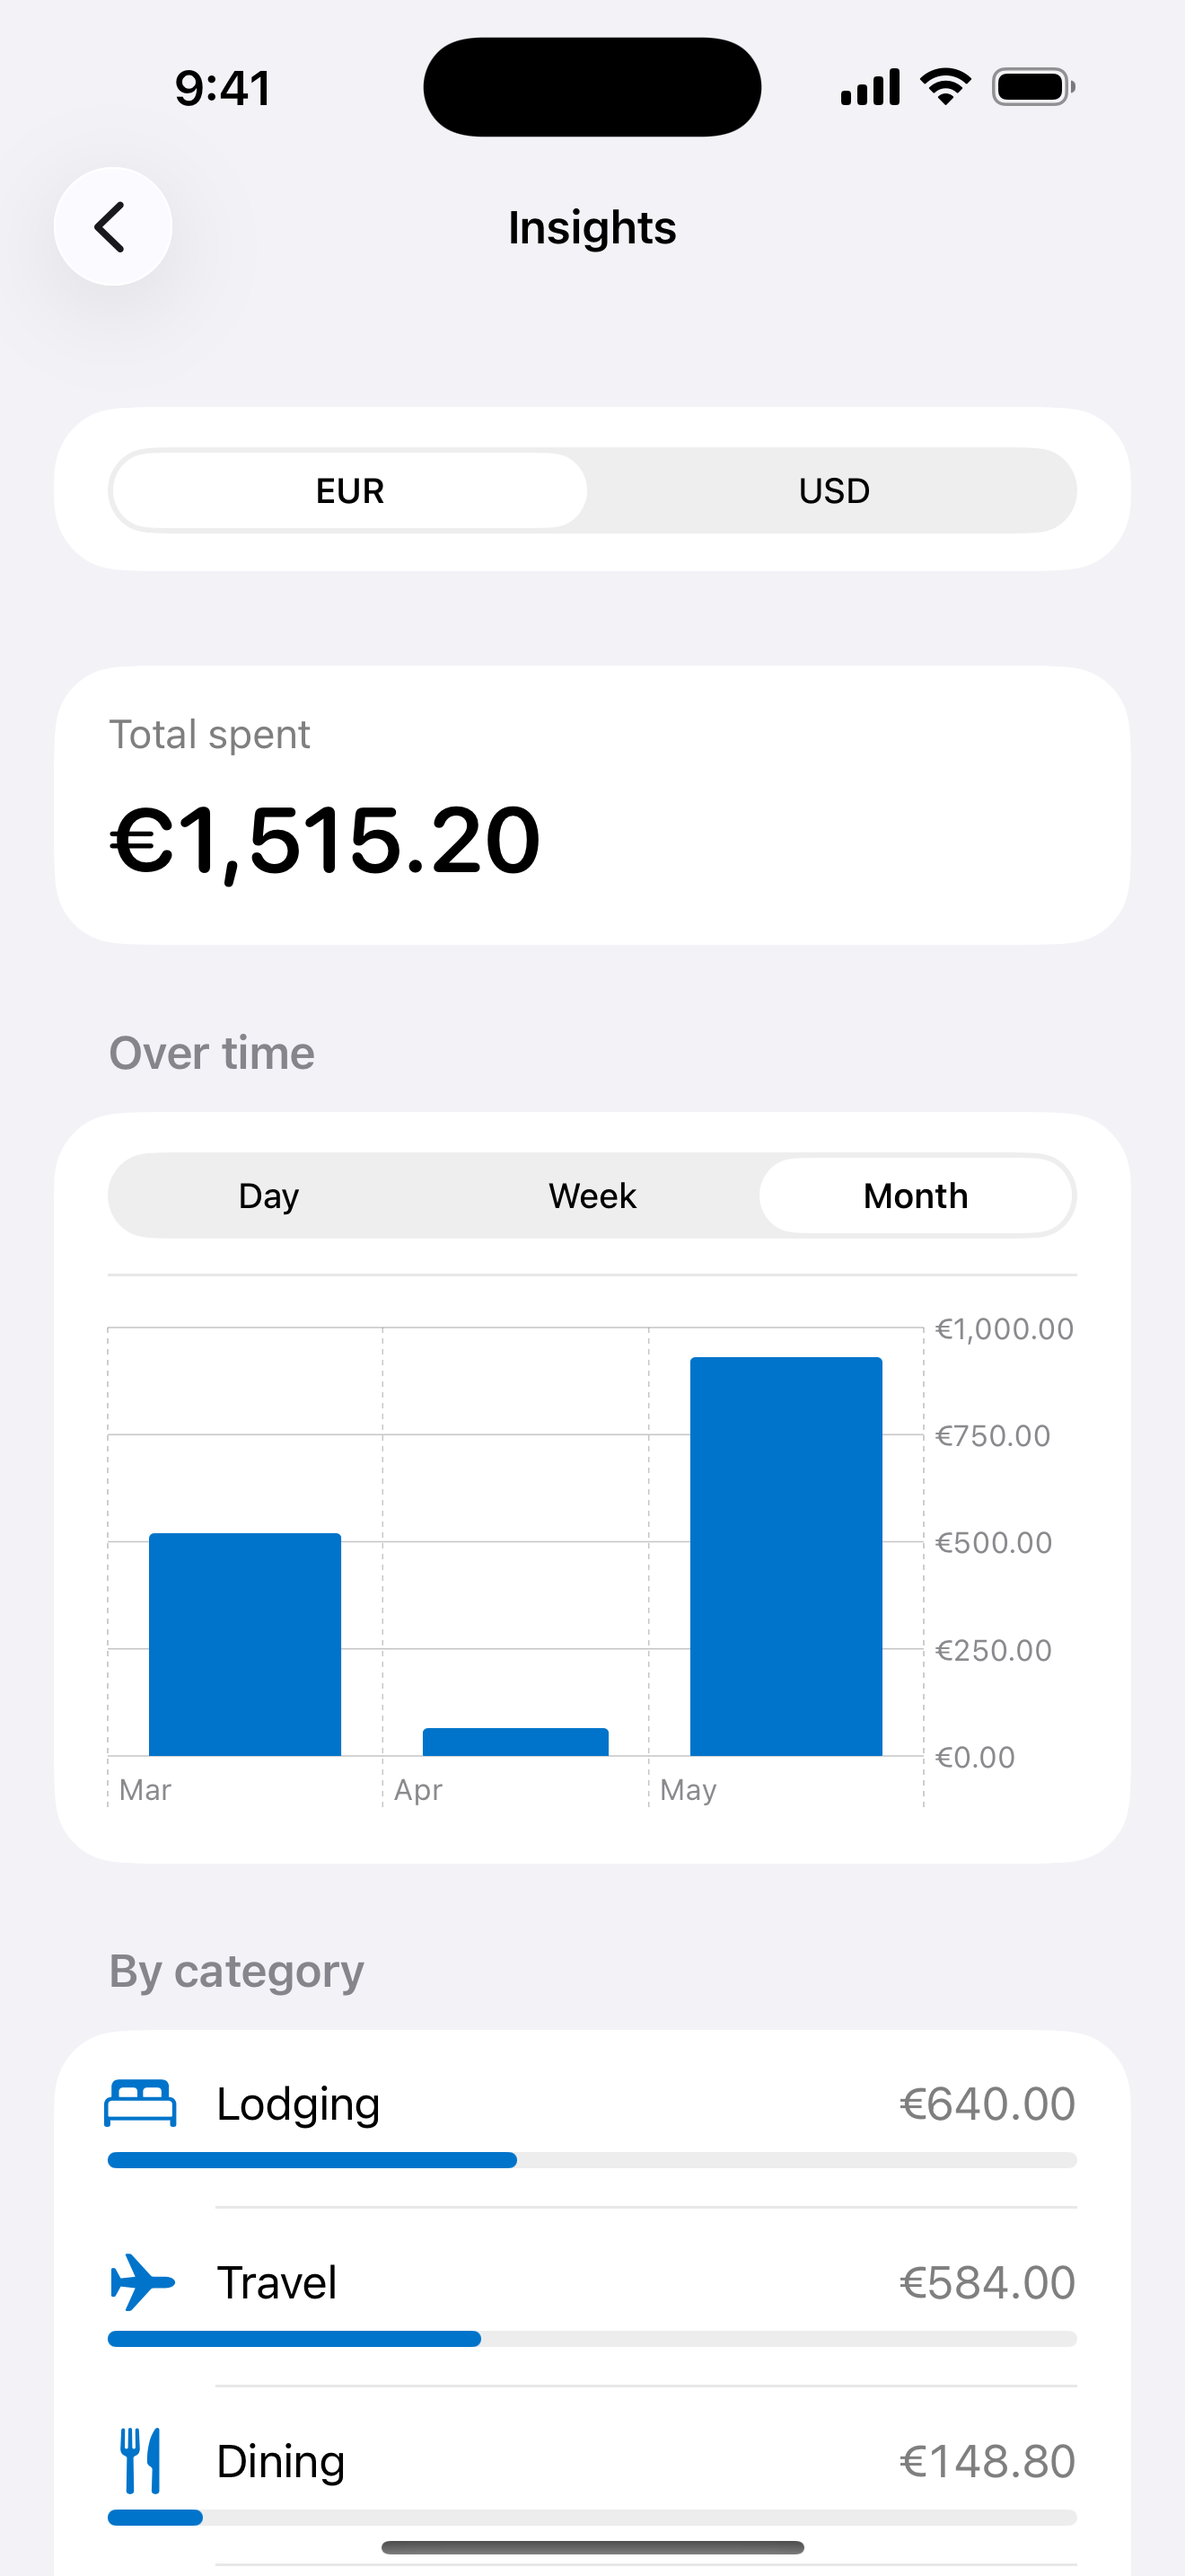
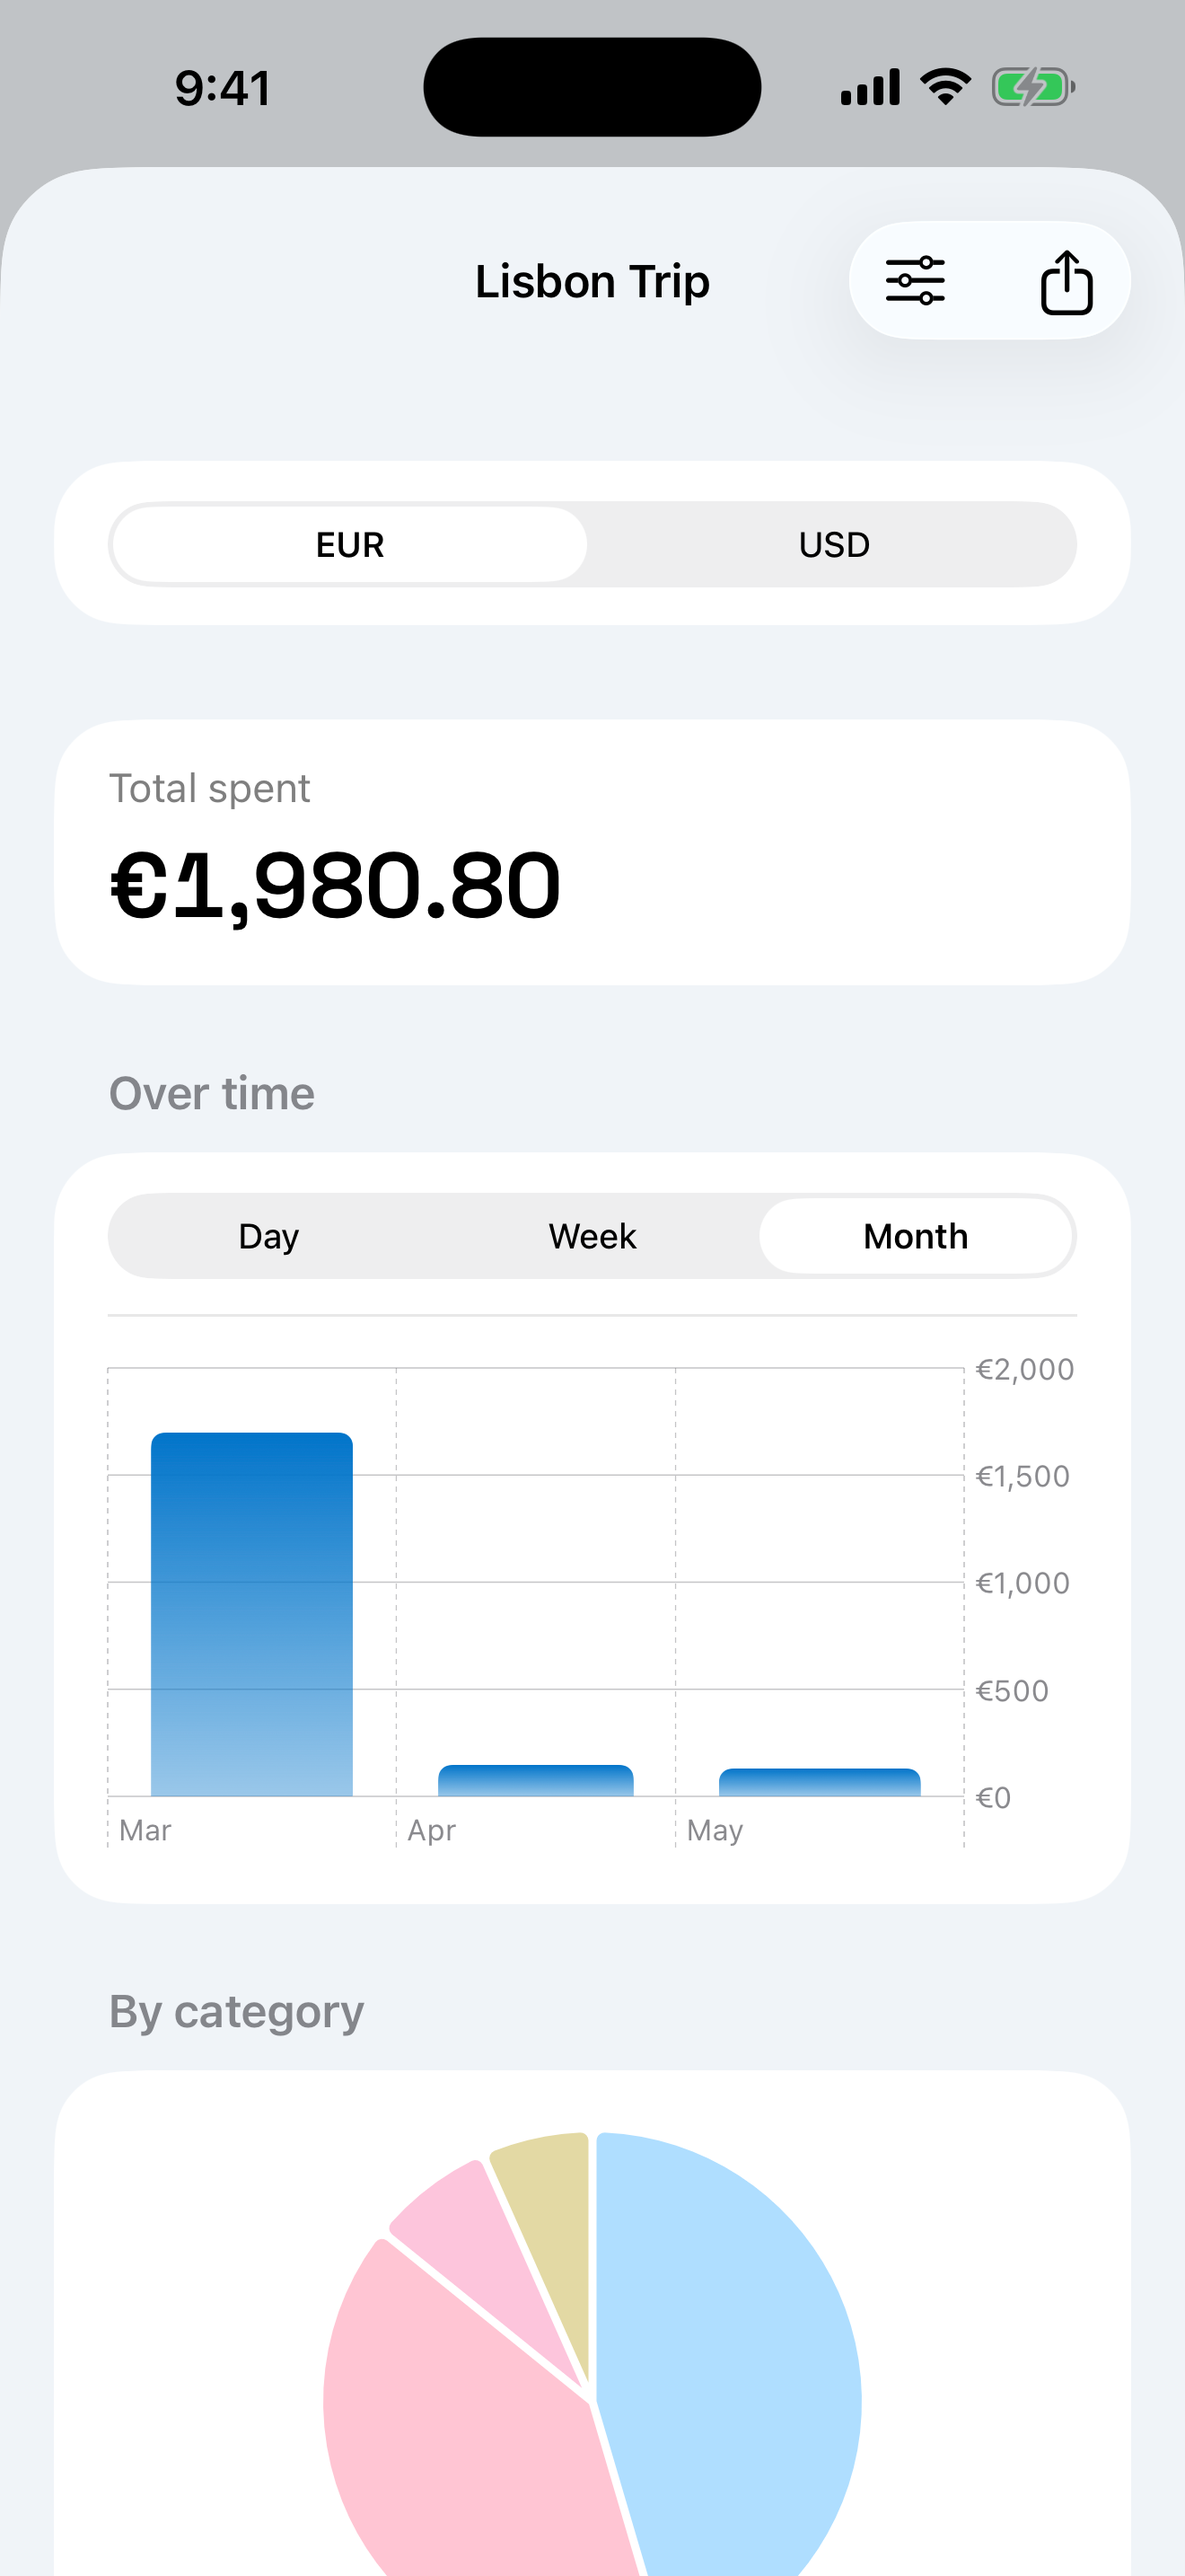
docs(appstore): retake stale screenshots, refresh description for build 17
The 2026-09-02/09-09 screenshots and description predated the round-2/
round-3 batches and the R1-R16 owner-feedback batch (Friends + private
1:1 tabs, multiple payers, split by shares, itemized tax/tip, comments,
recurring reminders, CSV import, the current Group Home hero-card/
bubble-view/Insights-preview-card layout) - a real Guideline 2.3.3
concern, not just cosmetic drift. Retaken against build 17's actual UI
and re-uploaded to the same APP_IPHONE_67 set; description rewritten to
cover what shipped since, same voice/structure. Promotional text,
pricing, IAP/subscription state, and review notes were all re-verified
unchanged and still accurate.

diff --git a/docs/appstore/metadata.md b/docs/appstore/metadata.md
@@ -22,9 +22,27 @@ cost). **Price set to Free** via the ASC API on 2026-09-10:
 `POST /v1/appPriceSchedules` with `baseTerritory = USA` at the free
 price point — USA base + all 174 automatic territories now `0.0`,
 effective immediately. Verified 0 IAP products and 0 subscription
-groups exist. Remaining is just the `Owner` decision to submit
-(`CHECKLIST.md` "Submit for App Store review"), gated on the TestFlight
-pass.
+groups exist.
+
+**Refreshed 2026-09-16** (build 17, real-device TestFlight pass complete,
+`v1.0-17` tagged): the 4 screenshots and the description were both
+badly stale — captured/written 2026-09-02/09-09, before the round-2/
+round-3 batches and the R1-R16 owner-feedback batch (Friends + private
+1:1 tabs, multiple payers, split by shares, itemized tax/tip, comments,
+recurring reminders, CSV import, the current hero-card/bubble-view/
+Insights-preview-card Group Home layout). Guideline 2.3.3 requires
+screenshots to reflect the actual app — the old ones showed a UI that
+no longer exists (a flat "Spending Insights" row, a bare bar chart, only
+3 split types). Retaken against a live local `wrangler dev` backend +
+Simulator run seeded with a realistic multi-currency, multi-category
+"Lisbon Trip" demo group (same iPhone 17 Pro Max / 1320×2868 / 9:41
+status bar recipe as before) and re-uploaded to the same
+`APP_IPHONE_67` set, same order and file names. Description rewritten
+to mention what shipped since (split types, multiple payers, Friends/
+private tabs, comments/reminders/CSV import) while keeping the original
+voice/section structure; promotional text untouched (still accurate).
+Remaining is just the `Owner` decision to submit (`CHECKLIST.md`
+"Submit for App Store review").
 
 **ASC API access** (for a future session): key `58887ALLXT` (Team key
 "clantab-upload", App Manager) at `~/.appstoreconnect/private_keys/`;
@@ -64,6 +82,12 @@ under 1.2 are already met either way.
 code, and split trip and flatmate expenses down to the last paisa.`
 
 ## Description (≤ 4000 chars)
+
+Rewritten 2026-09-16 (see the note at the top of this file) to cover what's
+shipped since the original 2026-09-09 draft — split types beyond equal/exact,
+multiple payers, Friends/private tabs, comments/reminders/CSV import — while
+keeping the original section structure and voice.
+
 ```
 ClanTab splits shared expenses for small groups — trips, flatmates, friend
 circles — without the friction.
@@ -78,20 +102,30 @@ ClanTab collapses everyone's tangled IOUs into the minimum number of
 "pay this person that much" transactions, so you settle up with one or two
 transfers instead of six.
 
+SPLIT HOW YOU WANT
+Equal splits, exact amounts, percentages, uneven shares (2:1:1), or itemized
+receipts with tax and tip divided proportionally. Multiple people can pay one
+expense together. The remainder from an uneven split is always assigned
+deterministically, so the totals match.
+
 EXACT TO THE PAISA
 Every amount is tracked in whole cents/paise — no floating-point rounding, no
 lost or gained money across the ledger, ever.
 
-SPLIT HOW YOU WANT
-Equal splits or exact amounts per person. The remainder from an uneven split is
-always assigned deterministically, so the totals match.
+FRIENDS ACROSS GROUPS
+See your net balance with anyone you share a group with, and start a private
+1:1 tab with them for money that has nothing to do with any group.
 
 TRUST-BASED, NOT A PAYMENT APP
 Marking a debt "paid" just records that you settled it outside the app. ClanTab
 never touches your money and never asks for card or bank details.
 
+STAY ON THE SAME PAGE
+Comment on any expense, set up recurring reminders for regular bills, and
+import an existing Splitwise or Settle Up CSV to bring your history with you.
+
 YOUR DATA, EXPORTABLE
-Export any group to CSV or JSON at any time from the share menu.
+Export any group to CSV, JSON, or a PDF report at any time from the share menu.
 
 NO ADS. NO TRACKING.
 There are no analytics or advertising SDKs in the app.
@@ -208,11 +242,17 @@ analytics or advertising SDKs. No in-app purchases.
 ```
 
 ## Screenshots
-✅ Uploaded to App Store Connect 2026-09-09 (`APP_IPHONE_67` set, order 1–4,
-all `COMPLETE`, no warnings). Source: `docs/appstore/screenshots/`
-(2026-09-02). Four 1320 × 2868 frames
-(iPhone 6.9" — the one required iPhone size), PNG without alpha, status bar at
-9:41: Group Home, Insights, Add Expense, Settle Up. Captured on an iPhone 17 Pro
-Max Simulator with a "Lisbon Trip" demo group. Upload as-is to the iPhone
-screenshot slot in App Store Connect; App Store Connect scales for other iPhone
-sizes.
+✅ Retaken and re-uploaded to App Store Connect 2026-09-16 (`APP_IPHONE_67`
+set, same 4 asset ids' slots replaced, order 1–4, all `COMPLETE`, no errors),
+replacing the 2026-09-02 set that had gone stale against build 17's actual UI
+(see the note at the top of this file). Source: `docs/appstore/screenshots/`.
+Four 1320 × 2868 frames (iPhone 6.9" — the one required iPhone size), PNG
+without alpha, status bar at 9:41: Group Home (current hero card + swipeable
+bubble/Insights-preview `TabView`), Insights (the sheet, showing the category
+pie chart), Add Expense (the split-type menu showing Items/Shares alongside
+Equally/Exact/Percentage), Settle Up (both EUR and USD suggested payments).
+Captured on an iPhone 17 Pro Max Simulator against a local `wrangler dev`
+backend, seeded via the API with a "Lisbon Trip" demo group (Sam/Priya/Alex/
+Jordan) exercising shares, itemized tax/tip, and multiple payers across two
+currencies. Upload as-is to the iPhone screenshot slot in App Store Connect;
+App Store Connect scales for other iPhone sizes.
